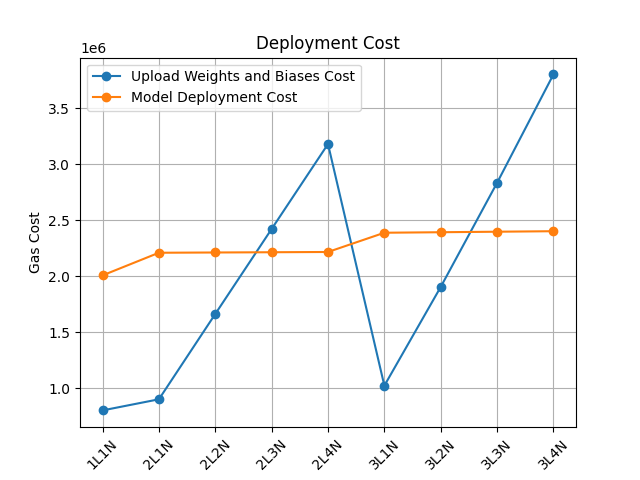
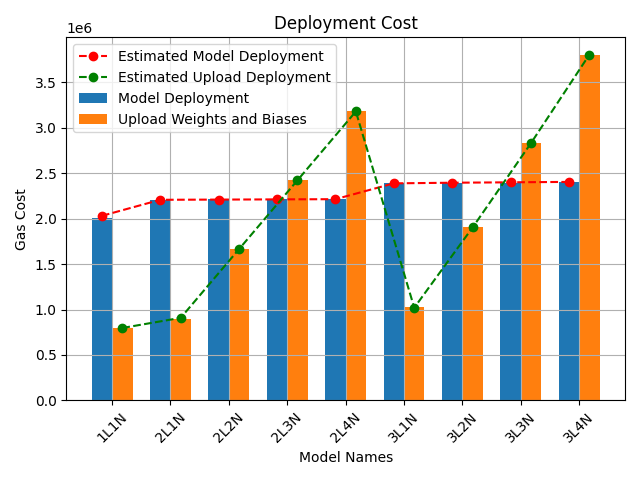
updated graphs

diff --git a/src/visualize.py b/src/visualize.py
@@ -27,14 +27,24 @@ def read_data(file_path):
 
 # Function to plot the Deployment Cost graph as a line chart
 def plot_deployment_cost_line(df):
-    plt.figure()
-    plt.plot(df['name'], df['weight_biases_gas'], marker='o', label='Upload Weights and Biases Cost')
-    plt.plot(df['name'], df['deployment_gas'], marker='o', label='Model Deployment Cost')
-    plt.ylabel('Gas Cost')
-    plt.title('Deployment Cost')
-    plt.xticks(rotation=45)
-    plt.legend()
-    plt.grid(True)
+    fig, ax = plt.subplots()
+    bar_width = 0.35
+    deployment_positions = [i - bar_width / 2 for i in range(len(df))]
+    weight_biases_positions = [i + bar_width / 2 for i in range(len(df))]
+    ax.bar(deployment_positions, df['deployment_gas'], bar_width, label='Model Deployment')
+    ax.bar(weight_biases_positions, df['weight_biases_gas'], bar_width, label='Upload Weights and Biases')
+    ax.plot(deployment_positions, df['deployment_gas_estimate'], marker='o', linestyle='--',
+            label='Estimated Model Deployment',color = 'red')
+    ax.plot(weight_biases_positions, df['upload_gas_estimate'], marker='o', linestyle='--',
+            label='Estimated Upload Deployment', color = 'green')
+    ax.set_xlabel('Model Names')
+    ax.set_ylabel('Gas Cost')
+    ax.set_title('Deployment Cost')
+    ax.set_xticks(range(len(df)))
+    ax.set_xticklabels(df['name'], rotation=45)
+    ax.legend()
+    ax.grid(True)
+    plt.tight_layout()  # Adjust layout to prevent clipping of ylabel
     plt.savefig("../results/Visualization/deployment_cost_line.png")
     plt.show()
 
@@ -58,6 +68,9 @@ local_accuracy_file_path = '../results/Local_accuracy'
 onchain_file_path = '../results/Onchain_accuracy'
 df = read_data(onchain_file_path)
 df['name'] = ['1L1N', '2L1N', '2L2N', '2L3N', '2L4N', '3L1N', '3L2N', '3L3N', '3L4N']
+df['deployment_gas_estimate'] = [2030000, 2206307, 2208580, 2210853, 2213126, 2387160, 2393979, 2398525, 2403071]
+df['upload_gas_estimate'] = [796976, 908241, 1664592, 2420943, 3177294, 1019506, 1902161, 2829820, 3802482]
+
 # Plotting the specific graphs
 plot_deployment_cost_line(df)
 plot_inference_cost(df)
@@ -89,7 +102,7 @@ def read_local_accuracy(file_path):
 
 
 # Function to plot accuracy comparison
-
+'''
 def plot_accuracy_comparison(df, onchain_column, local_column, title):
     # Set the width of the bars
     bar_width = 0.35
@@ -106,6 +119,22 @@ def plot_accuracy_comparison(df, onchain_column, local_column, title):
     plt.grid(True)
     plt.savefig("../results/visualization/accuracy_comparison_bar.png")
     plt.show()
+'''
+
+
+def plot_accuracy_comparison(df, onchain_column, local_column, title):
+    plt.figure(figsize=(10, 6))
+    plt.plot(df['name'], df[local_column], marker='o', label='Local Accuracy', linewidth=6,
+             markersize=12, linestyle='--')
+    plt.plot(df['name'], df[onchain_column], marker='o', label='On-chain Accuracy')
+    plt.xlabel('Model Name')
+    plt.ylabel('Accuracy (%)')
+    plt.xticks(rotation=45)
+    plt.legend()
+    plt.grid(True)
+    plt.savefig("../results/visualization/" + 'accuracy' + ".png")
+    plt.show()
+
 
 local_accuracies = read_local_accuracy(local_accuracy_file_path)
 df['local_accuracy'] = df['name'].map(local_accuracies)
